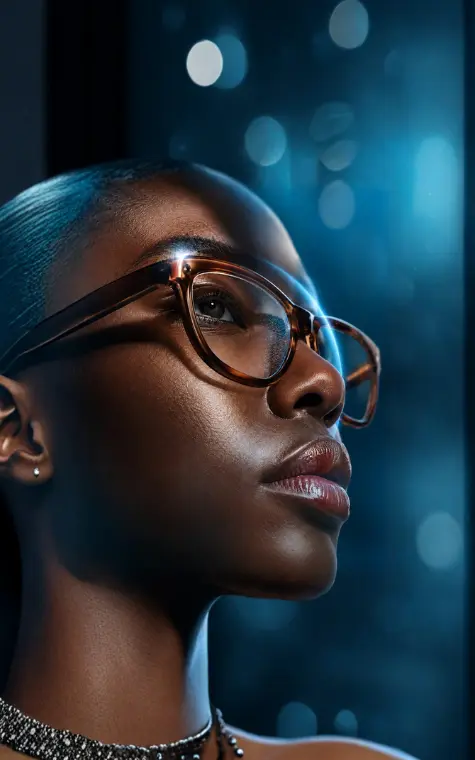
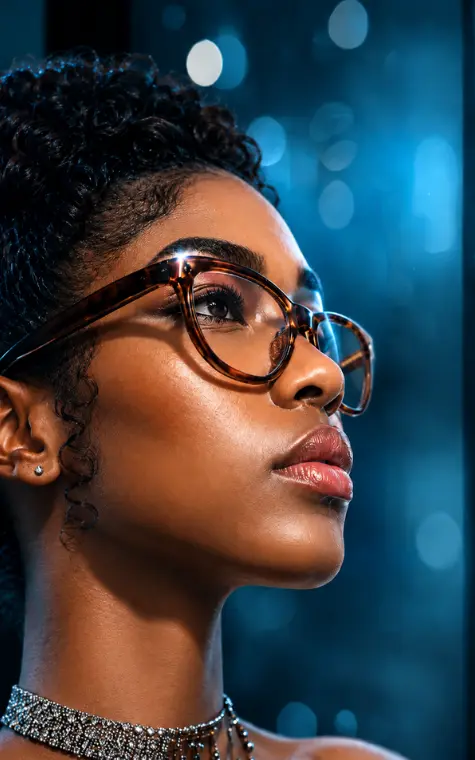
changes

diff --git a/assets/css/main.css b/assets/css/main.css
@@ -2848,14 +2848,15 @@ html.gsap-enhanced .hero-scroll{
 }
 .over-banner-bg{
   position:absolute;
-  inset:0;
+  inset:-35% 0;
   z-index:0;
+  will-change:transform;
 }
 .over-banner-bg img{
   width:100%;
   height:100%;
   object-fit:cover;
-  object-position:center 20%;
+  object-position:center 30%;
   display:block;
 }
 .over-banner-overlay{
@@ -2864,24 +2865,24 @@ html.gsap-enhanced .hero-scroll{
   z-index:1;
   background:linear-gradient(
     180deg,
-    rgba(150,90,10,.22) 0%,
-    rgba(90,45,5,.38) 50%,
-    rgba(14,6,0,.78) 74%,
-    rgba(14,6,0,.94) 100%
+    rgba(150,90,10,.18) 0%,
+    rgba(60,30,0,.30) 40%,
+    rgba(14,6,0,.60) 72%,
+    rgba(14,6,0,.72) 100%
   );
 }
 .over-banner-strip{
   position:relative;
   z-index:2;
   margin-top:auto;
-  border-top:1px solid rgba(255,255,255,.14);
+  margin-bottom:clamp(16rem,30vh,24rem);
 }
 .over-banner-inner{
   display:grid;
   grid-template-columns:1fr 1fr;
   gap:clamp(3rem,7vw,9rem);
   align-items:center;
-  padding:clamp(1.2rem,2vw,1.8rem) 5%;
+  padding:clamp(1.2rem,2vw,1.8rem) 4% clamp(1.2rem,2vw,1.8rem) 5%;
 }
 .over-banner-left{
   display:flex;
@@ -2923,13 +2924,15 @@ html.gsap-enhanced .hero-scroll{
   display:flex;
   flex-direction:column;
   gap:1.6rem;
+  justify-self:end;
+  width:100%;
+  max-width:420px;
 }
 .over-banner-sub{
   font-family:var(--sans);
   font-size:clamp(.875rem,1.15vw,1rem);
   line-height:1.7;
   color:rgba(255,255,255,.68);
-  max-width:420px;
   margin:0;
 }
 .over-banner-actions{

diff --git a/includes/layout/end.php b/includes/layout/end.php
@@ -72,6 +72,19 @@ window.addEventListener('load', function () {
   if (typeof gsap === 'undefined') return;
   gsap.registerPlugin(ScrollTrigger);
 
+  /* Hero parallax */
+  gsap.to('.over-banner-bg', {
+    yPercent: 40,
+    ease: 'none',
+    scrollTrigger: {
+      trigger: '.over-banner',
+      start: 'top top',
+      end: 'bottom top',
+      scrub: 1,
+    },
+  });
+
+  /* Sticky step cards */
   const cards = gsap.utils.toArray('.sticky-card');
   const wraps = gsap.utils.toArray('.sticky-wrap');
 

diff --git a/includes/views/home.php b/includes/views/home.php
@@ -71,7 +71,7 @@
               loading="lazy"
               decoding="async"
               fetchpriority="low"
-              src="<?= esc(asset_url('assets/img/Model-homepage.png')); ?>"
+              src="<?= esc(asset_url('assets/img/Model-homepage-option.png')); ?>"
               alt="Model met zonnebrillen uit de collectie"
               width="1448"
               height="1086"
@@ -302,7 +302,7 @@
   <div class="editorial-band">
     <img
       class="editorial-band-img"
-      src="<?= esc(asset_url('assets/img/Model-homepage-Quote.png')); ?>"
+      src="<?= esc(asset_url('assets/img/Model-homepage-Quote-option.webp')); ?>"
       alt="Modellen met brillen uit de collectie van Optiekjaa"
       loading="lazy"
       decoding="async"